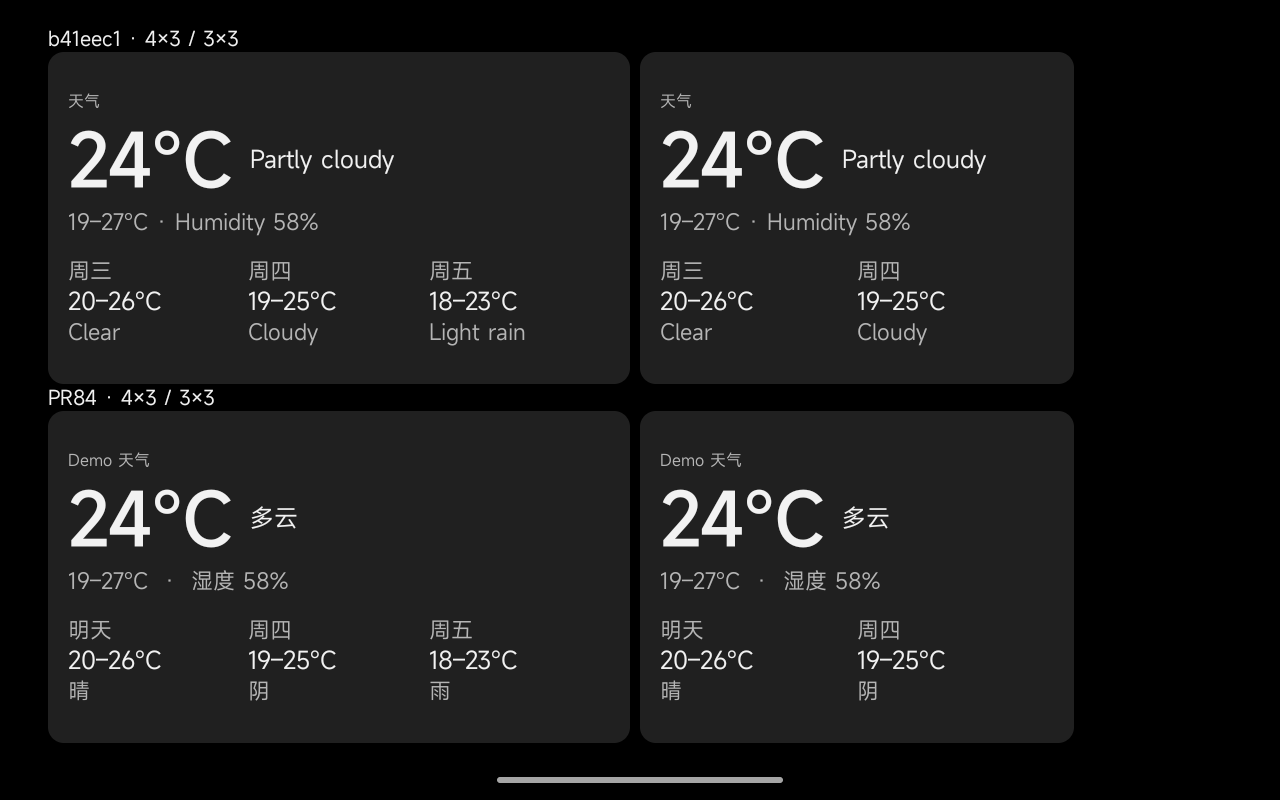
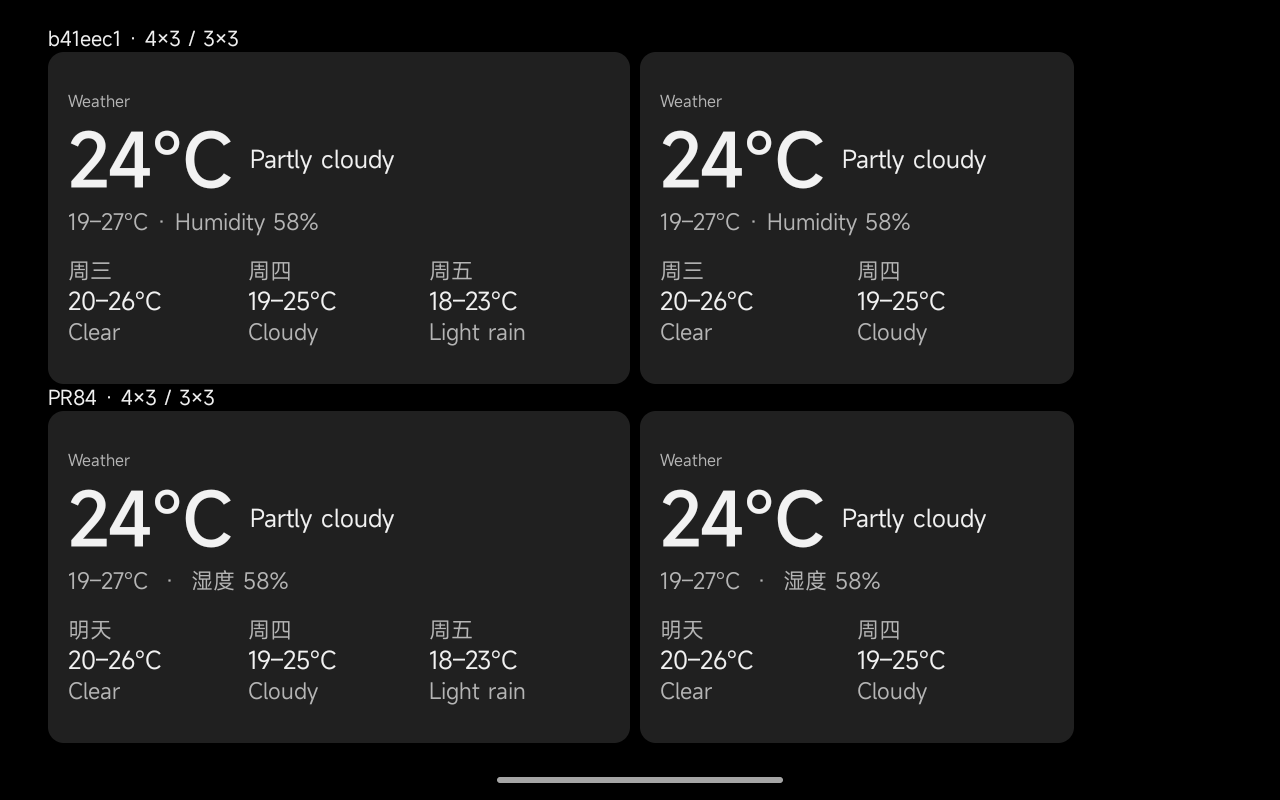
PR84：恢复经典天气的英文标题和天气描述

diff --git a/app/src/main/java/com/dormpanel/app/dashboard/card/WeatherCardPresentation.kt b/app/src/main/java/com/dormpanel/app/dashboard/card/WeatherCardPresentation.kt
@@ -14,7 +14,7 @@ internal data class WeatherSky(val symbol: WeatherSymbol, val description: Strin
 internal data class WeatherLine(val label: String, val sky: WeatherSky, val temperature: String?, val rain: String?,
     val secondaryDate: String? = null)
 
-internal fun sky(code: String?, description: String? = null, daytime: Boolean? = null): WeatherSky {
+internal fun sky(code: String?, description: String? = null, daytime: Boolean? = null, classic: Boolean = false): WeatherSky {
     val night = daytime == false
     val partly = if (night) WeatherSymbol.PARTLY_NIGHT else WeatherSymbol.PARTLY
     val value = when (code?.lowercase(Locale.ROOT)) {
@@ -35,7 +35,40 @@ internal fun sky(code: String?, description: String? = null, daytime: Boolean? =
         "windy", "windy-variant" -> WeatherSky(WeatherSymbol.WIND, "有风")
         else -> WeatherSky(WeatherSymbol.UNKNOWN, if (code.isNullOrBlank()) "天气未知" else "未知天气")
     }
-    return value.copy(description = description?.takeIf { it.isNotBlank() } ?: value.description)
+    val text = if (classic) classicCondition(code, description, value.symbol)
+        else description?.takeIf { it.isNotBlank() } ?: value.description
+    return value.copy(description = text)
+}
+
+private fun classicCondition(code: String?, description: String?, symbol: WeatherSymbol): String {
+    // Preserve English descriptions from the provider and the historical Demo text.
+    fun String.isEnglishText() = any { it in 'a'..'z' || it in 'A'..'Z' } && all { it.code < 128 }
+    description?.takeIf { it.isEnglishText() }?.let { return it }
+    code?.takeIf { it.firstOrNull()?.isUpperCase() == true && it.isEnglishText() }?.let { return it }
+    return when (code?.lowercase(Locale.ROOT)) {
+        "100", "sunny" -> "Sunny"
+        "clear" -> "Clear"
+        "305", "light rain" -> "Light rain"
+        "306" -> "Moderate rain"
+        "307", "pouring" -> "Heavy rain"
+        "313" -> "Freezing rain"
+        "hail" -> "Hail"
+        "404", "405", "406", "456", "457", "snowy-rainy" -> "Sleet"
+        "503", "504", "507", "508" -> "Dust"
+        else -> when (symbol) {
+            WeatherSymbol.SUN -> "Sunny"
+            WeatherSymbol.MOON -> "Clear night"
+            WeatherSymbol.PARTLY, WeatherSymbol.PARTLY_NIGHT -> "Partly cloudy"
+            WeatherSymbol.CLOUD -> "Cloudy"
+            WeatherSymbol.RAIN -> "Rain"
+            WeatherSymbol.SNOW -> "Snow"
+            WeatherSymbol.STORM -> "Thunderstorm"
+            WeatherSymbol.FOG -> "Fog"
+            WeatherSymbol.HAZE -> "Haze"
+            WeatherSymbol.WIND -> "Windy"
+            else -> "Unknown"
+        }
+    }
 }
 
 internal fun weatherSourceName(source: WeatherSourceRef) = when (source) {
@@ -87,7 +120,7 @@ internal fun WeatherSnapshot?.today(now: Instant): WeatherForecast? {
 }
 
 internal fun WeatherSnapshot?.forecastLines(now: Instant, limit: Int, includeToday: Boolean = true,
-    forCard: Boolean = false): List<WeatherLine> {
+    forCard: Boolean = false, classic: Boolean = false): List<WeatherLine> {
     val snapshot = this ?: return emptyList()
     val today = now.atZone(zone).toLocalDate()
     val homeAssistant = source is WeatherSourceRef.HomeAssistant
@@ -117,7 +150,7 @@ internal fun WeatherSnapshot?.forecastLines(now: Instant, limit: Int, includeTod
             if (query.block == WeatherBlock.DAILY) item.conditions.cardRange() else conditions.cardTemperature()
         } else if (query.block == WeatherBlock.DAILY) range(item.conditions.minTemperature, item.conditions.maxTemperature, "°")
         else conditions.temperature.value("°")
-        WeatherLine(label, sky(conditions.code, conditions.description, daytime), temperature,
+        WeatherLine(label, sky(conditions.code, conditions.description, daytime, classic), temperature,
             conditions.precipitationProbability.value("%")?.let { "降水 $it" },
             date?.takeIf { forCard && query.block == WeatherBlock.DAILY }?.let(::dateLabel))
     }.take(limit).toList()
@@ -180,7 +213,7 @@ internal fun WeatherConditions.metric(metric: WeatherCardMetric, temperatureUnit
 }
 
 internal fun LegacyWeather.lines(now: Instant, limit: Int, forCard: Boolean = false,
-    zone: ZoneId = ZoneId.systemDefault(), includeToday: Boolean = true): List<WeatherLine> {
+    zone: ZoneId = ZoneId.systemDefault(), includeToday: Boolean = true, classic: Boolean = false): List<WeatherLine> {
     val today = now.atZone(zone).toLocalDate()
     return forecast.asSequence().mapNotNull {
         val start = Instant.ofEpochMilli(it.timeEpochMillis)
@@ -200,7 +233,7 @@ internal fun LegacyWeather.lines(now: Instant, limit: Int, forCard: Boolean = fa
             }
         }
         if (!forCard && entityId != null && date < today) return@mapNotNull null
-        WeatherLine(label, sky(it.condition, daytime = it.isDaytime),
+        WeatherLine(label, sky(it.condition, daytime = it.isDaytime, classic = classic),
             when {
                 forecastType != "daily" -> it.forecastTemperature.value(temperatureUnit)
                 forCard -> cardRange(it.low, it.high, temperatureUnit)

diff --git a/app/src/androidTest/java/com/dormpanel/app/CoreDashboardTest.kt b/app/src/androidTest/java/com/dormpanel/app/CoreDashboardTest.kt
@@ -578,11 +578,11 @@ class CoreDashboardTest {
                     val views = descendants(grid).filterIsInstance<DashboardCardView>().associateBy { view -> view.tag }
                     assertTrue(views.getValue("a").contentDescription.contains("23°C"))
                     val missingReading = views.getValue("b").contentDescription.toString()
-                    assertTrue(missingReading.contains("北京, —, 雾, 最高 11°C"))
+                    assertTrue(missingReading.contains("Weather, 北京, —, Fog, 最高 11°C"))
                     assertFalse(missingReading.contains("湿度"))
                     assertTrue(views.getValue("c").contentDescription.contains("19°C"))
                     assertTrue(views.getValue("d").contentDescription.contains("23°C"))
-                    assertTrue(views.getValue("e").contentDescription.contains("夜间 19°C 雷暴"))
+                    assertTrue(views.getValue("e").contentDescription.contains("夜间 19°C Thunderstorm"))
                     assertEquals(6, started.size)
                     assertTrue((home to WeatherBlock.TWICE_DAILY) in started)
                     assertFalse((home to WeatherBlock.DAILY) in started)
@@ -975,7 +975,8 @@ class CoreDashboardTest {
                     val sample = demo.state.weather.copy(
                         name = "很长的地点名称用于验证天气卡片在最窄尺寸下仍然显示来源和状态",
                         temperature = -123, low = -123, high = 105, temperatureUnit = "°F",
-                        conditions = WeatherConditions(code = "rainy", description = "持续性暴雨转雨夹雪",
+                        conditions = WeatherConditions(code = "rainy",
+                            description = if (classic) "Heavy rain turning to sleet" else "持续性暴雨转雨夹雪",
                             temperature = (-123.5 - 32) / 1.8, sourceTemperatureUnit = "°F",
                             humidity = 95.0, feelsLike = -82.0, windSpeed = 123.4),
                         availability = com.dormpanel.app.data.Availability.STALE,
@@ -1022,6 +1023,7 @@ class CoreDashboardTest {
                                 val condition = text.single { it.text == sample.conditions?.description }
                                 val horizontal = size.rowSpan == 1 || size.columnSpan >= 3
                                 assertEquals("$size current orientation", horizontal, condition.left > temperature.left)
+                                assertEquals(size.rowSpan >= 2, text.any { it.text == "Weather" })
                                 assertEquals(size.rowSpan >= 2, text.any { it.text == "-123–105°F  ·  湿度 95%" })
                                 val columns = if (size.rowSpan == 3 && size.columnSpan >= 3) size.columnSpan - 1 else 0
                                 assertEquals(columns, text.count { it.text == "-123–105°F" })

diff --git a/app/src/main/java/com/dormpanel/app/dashboard/card/BaseWeatherCardView.kt b/app/src/main/java/com/dormpanel/app/dashboard/card/BaseWeatherCardView.kt
@@ -21,6 +21,7 @@ import java.time.ZoneId
 
 internal data class WeatherCardReadings(
     val title: String,
+    val displayName: String?,
     val credit: String,
     val qweather: Boolean,
     val temperature: String,
@@ -39,6 +40,7 @@ internal abstract class BaseWeatherCardView(
     source: DashboardDataSource,
     repository: WeatherRepository?,
     private val clock: () -> Instant,
+    private val classic: Boolean = false,
 ) : DashboardCardView(context, appearance) {
     protected abstract val forecastColumns: Int
     protected abstract fun renderReadings(readings: WeatherCardReadings, metric: (WeatherCardMetric) -> String?)
@@ -98,7 +100,7 @@ internal abstract class BaseWeatherCardView(
         val today = prediction.today(now)?.conditions
         val binding = configuration as? WeatherCardConfiguration.Bound
         val invalid = configuration == WeatherCardConfiguration.Invalid || (binding != null && feed.invalid)
-        val weather = sky(conditions?.code ?: validLegacy?.condition, conditions?.description)
+        val weather = sky(conditions?.code ?: validLegacy?.condition, conditions?.description, classic = classic)
         val title = binding?.displayName ?: feed.place?.name ?: legacy?.name ?: "天气"
         val qweather = binding != null && binding.source !is WeatherSourceRef.HomeAssistant
         val credit = when {
@@ -136,8 +138,9 @@ internal abstract class BaseWeatherCardView(
         val slots = forecastColumns
         val lines = when {
             slots == 0 -> emptyList()
-            validLegacy != null -> validLegacy.lines(now, slots, forCard = true, zone = zone, includeToday = false)
-            else -> prediction.forecastLines(now, slots, includeToday = prediction?.query?.block != WeatherBlock.DAILY, forCard = true)
+            validLegacy != null -> validLegacy.lines(now, slots, forCard = true, zone = zone, includeToday = false, classic = classic)
+            else -> prediction.forecastLines(now, slots, includeToday = prediction?.query?.block != WeatherBlock.DAILY,
+                forCard = true, classic = classic)
         }
         if (card.size.rowSpan >= 2 && !invalid && binding?.source is WeatherSourceRef.HomeAssistant &&
             prediction == null && snapshot?.haForecastFeatures == 0) {
@@ -148,7 +151,7 @@ internal abstract class BaseWeatherCardView(
         } else if (slots > 0 && prediction?.state == WeatherState.FRESH && lines.isEmpty()) {
             status = "${status}  ·  暂无后续预报"
         }
-        renderReadings(WeatherCardReadings(title, credit, qweather, temperature, condition,
+        renderReadings(WeatherCardReadings(title, binding?.displayName, credit, qweather, temperature, condition,
             weather.symbol, range, status, binding?.metric, lines), ::metric)
 
         removeCallbacks(midnight)

diff --git a/app/src/main/java/com/dormpanel/app/dashboard/card/ClassicWeatherCardView.kt b/app/src/main/java/com/dormpanel/app/dashboard/card/ClassicWeatherCardView.kt
@@ -17,7 +17,7 @@ internal class ClassicWeatherCardView(
     source: DashboardDataSource,
     repository: WeatherRepository? = null,
     clock: () -> Instant = Instant::now,
-) : BaseWeatherCardView(context, appearance, source, repository, clock) {
+) : BaseWeatherCardView(context, appearance, source, repository, clock, classic = true) {
     private val heading = classicLabel(DashboardTypography.MINOR, true).apply {
         minimumWidthTextSp = 14f
         ellipsize = TextUtils.TruncateAt.END
@@ -49,7 +49,7 @@ internal class ClassicWeatherCardView(
 
     override fun renderReadings(readings: WeatherCardReadings, metric: (WeatherCardMetric) -> String?) {
         val presentation = classicWeatherPresentation(card.size)
-        heading.text = readings.title
+        heading.text = readings.displayName ?: "Weather"
         heading.show(presentation.summary)
         val orientation = if (presentation.horizontal) HORIZONTAL else VERTICAL
         if (current.orientation != orientation) current.orientation = orientation
@@ -68,7 +68,7 @@ internal class ClassicWeatherCardView(
         bindAttribution(attribution, readings)
         status.text = readings.status.takeUnless { it == "最新" }.orEmpty()
         metadata.show(status.text.isNotEmpty() || attribution.visibility == VISIBLE)
-        describe(heading.text, temperature.text, condition.text,
+        describe(heading.text, readings.title.takeUnless { it == heading.text }.orEmpty(), temperature.text, condition.text,
             if (summary.visibility == VISIBLE) summary.text else "",
             status.text, forecastDescription(readings.forecast))
     }

diff --git a/app/src/test/java/com/dormpanel/app/dashboard/card/WeatherCardPresentationTest.kt b/app/src/test/java/com/dormpanel/app/dashboard/card/WeatherCardPresentationTest.kt
@@ -107,6 +107,23 @@ class WeatherCardPresentationTest {
         assertEquals("认证或权限失败", weatherStatus(model.copy(state = WeatherState.UNAUTHORIZED)))
     }
 
+    @Test fun classicWeatherUsesEnglishConditionsWithSharedForecastDates() {
+        val date = instant.atZone(zone).toLocalDate().plusDays(1)
+        val forecast = snapshot(WeatherBlock.DAILY,
+            WeatherForecast(WeatherPeriod(date = date), WeatherConditions(code = "104", description = "阴")))
+        val modern = forecast.forecastLines(instant, 1, forCard = true).single()
+        val classic = forecast.forecastLines(instant, 1, forCard = true, classic = true).single()
+        assertEquals("明天", modern.label)
+        assertEquals("阴", modern.sky.description)
+        assertEquals(modern.label, classic.label)
+        assertEquals("Cloudy", classic.sky.description)
+        assertEquals("Sunny", sky("100", "晴", classic = true).description)
+        assertEquals("Partly cloudy", sky("partlycloudy", classic = true).description)
+        assertEquals("Light rain", sky("Light rain", classic = true).description)
+        assertEquals("Clear", sky("Clear", classic = true).description)
+        assertEquals("Heavy rain turning to sleet", sky("rainy", "Heavy rain turning to sleet", classic = true).description)
+    }
+
     @Test fun cardRangesKeepUnitsMissingSidesAndDecimals() {
         assertEquals("18–27°C", cardRange(18, 27, "°C"))
         assertEquals("-123.5–105.2°F", cardRange(-123.5, 105.2, "°F"))

diff --git a/docs/verification/pr84-x08e-weather.md b/docs/verification/pr84-x08e-weather.md
@@ -1,6 +1,6 @@
 # PR84 · X08E 经典天气验收
 
-Debug、X08E testbed 和仪器测试 APK 构建成功。桌面模块 61 项 JVM 测试通过。
+Debug、X08E testbed 和仪器测试 APK 构建成功。桌面模块 62 项 JVM 测试通过。
 
 在 Android 9、1280×800、160 dpi 的 X08E 上，8 项保留的仪器测试通过。
 
@@ -9,7 +9,7 @@ Debug、X08E testbed 和仪器测试 APK 构建成功。桌面模块 61 项 JVM 
 - 使用 Demo 和固定的和风及 HA 快照。记录底层供给的启动与停止，验证同源的两种样式共享请求，换绑、移除和 detach 后释放各自的需求。HA 昼夜预报可在经典卡片中显示。
 - 新版保留原有图标和布局，相关实机测试覆盖字号适配、单行读数和午夜更新。默认字号单行截图的卡片区域与 PR83 对应截图逐像素一致。
 
-实机对照图使用相同的 Demo 数据。上排在隔离 testbed 内渲染 `b41eec1` 的历史卡片源码，下排为经典天气。左右分别为 4×3 和 3×3。经典版使用现有地点名称、中文天气描述和相对日期。
+实机对照图使用相同的 Demo 数据。上排在隔离 testbed 内渲染 `b41eec1` 的历史卡片源码，下排为经典天气。左右分别为 4×3 和 3×3。经典版恢复 `Weather` 和英文天气描述，湿度和日期继续使用桌面天气卡片现有格式。
 
 ![X08E 历史布局与经典天气对照](pr84-historical-comparison.png)
 
